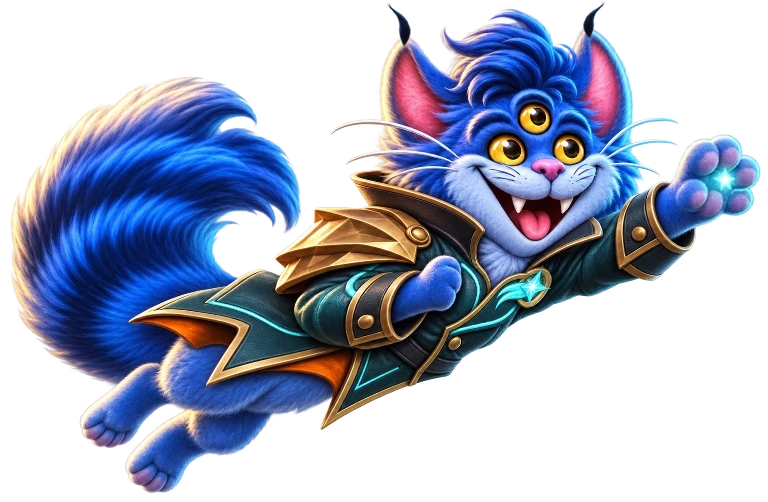
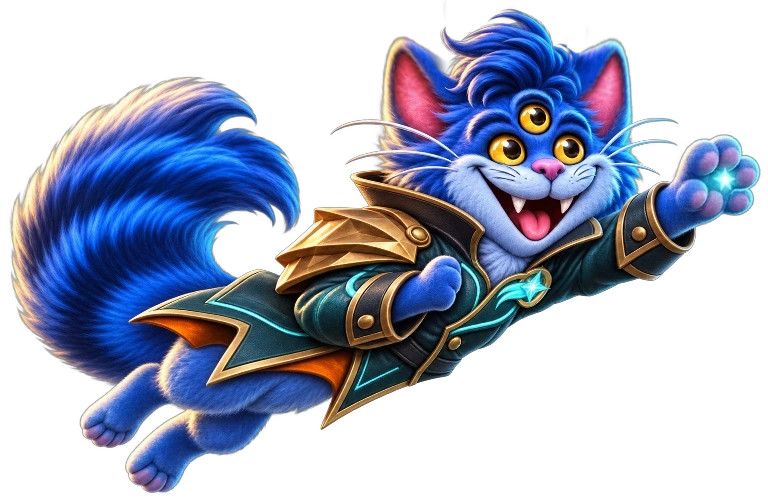
Blend Moonpaw’s ear tips into his natural blue fur

diff --git a/web/public/sw.js b/web/public/sw.js
@@ -1,5 +1,5 @@
 const LEGACY_CACHE_MARKER = "nicos-world-static-v22";
-const CACHE = "nicos-world-static-v66-moonpaw-ear-tufts";
+const CACHE = "nicos-world-static-v67-moonpaw-natural-ears";
 const FISHING_DOCUMENT = "/games/starfall-anglers/";
 const GAME_DOCUMENTS = [FISHING_DOCUMENT, "/games/timberline-hunt/", "/games/luma-lagoon/", "/games/skullwing/", "/games/mascaras-del-volcan/", "/games/moonpaw/"];
 const OFFLINE_ASSET_MANIFEST = "/offline-assets.json";
